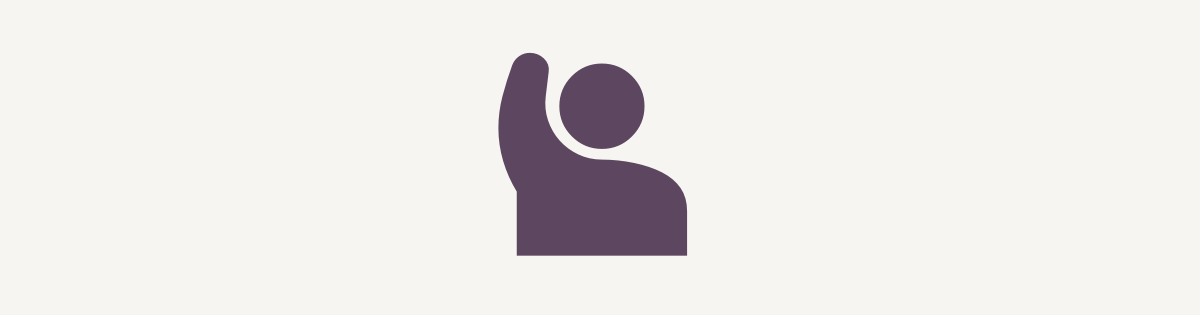
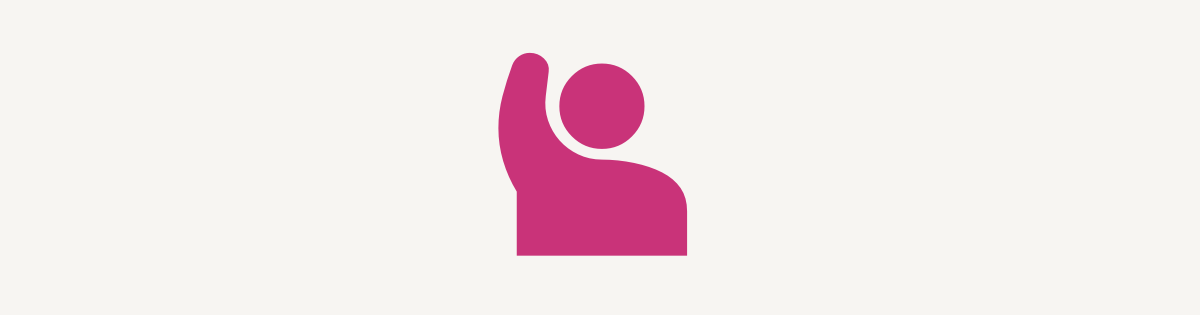
Add products API and table schema; update config
Add a /api/products REST API with GET/POST/PATCH/DELETE handlers and a /api/products/structure route that returns the products table schema. Add SQL assets: get_table_schema RPC and products table (with seed data). Remove outdated supabase README and the /api/viruses route. Update next.config to cache a specific video file, change design defaults (default theme -> light, primary color -> #C93379) and adjust manifest theme/background colors. Also update several public Askleida assets (PNGs, sketches, SVG fills) to reflect the new branding.

Changed region(s): [[0.4008, 0.1714, 0.5858, 0.8286]]

diff --git a/app/api/products/route.ts b/app/api/products/route.ts
@@ -1,0 +1,82 @@
+
+import { NextResponse } from 'next/server';
+import { createClient } from '@supabase/supabase-js';
+import { makeRes } from '../lib/makeRes';
+
+const supabaseUrl = process.env.NEXT_PUBLIC_SUPABASE_URL!;
+const supabaseServiceKey = process.env.SUPABASE_SERVICE_ROLE_KEY!;
+const tenant = process.env.NEXT_PUBLIC_TENANT;
+const supabase = createClient(supabaseUrl, supabaseServiceKey);
+
+// GET /api/products - List all products
+export async function GET(req: Request) {
+  const url = req?.url ? new URL(req.url) : null;
+  const id = url?.searchParams.get('id');
+  if (id) {
+    // Get single product by id
+    const { data, error } = await supabase.from('products').select('*').eq('product_id', id).single();
+    if (error) {
+      const res = makeRes({ tenant, message: error.message, severity: 'error' });
+      return NextResponse.json(res, { status: 404 });
+    }
+    const res = makeRes({ tenant, message: 'Fetched product', severity: 'success', data });
+    return NextResponse.json(res);
+  }
+  // List all products
+  const { data, error } = await supabase.from('products').select('*');
+  if (error) {
+    const res = makeRes({ tenant, message: error.message, severity: 'error' });
+    return NextResponse.json(res, { status: 500 });
+  }
+  const res = makeRes({ tenant, message: 'Fetched products', severity: 'success', data });
+  return NextResponse.json(res);
+}
+
+// POST /api/products - Create a new product
+export async function POST(req: Request) {
+  const body = await req.json();
+  if (!body.name || !body.price) {
+    const res = makeRes({ tenant, message: 'Missing required fields: name, price', severity: 'error' });
+    return NextResponse.json(res, { status: 400 });
+  }
+  const { data, error } = await supabase.from('products').insert([body]).select();
+  if (error) {
+    const res = makeRes({ tenant, message: error.message, severity: 'error' });
+    return NextResponse.json(res, { status: 500 });
+  }
+  const res = makeRes({ tenant, message: 'Product created', severity: 'success', data });
+  return NextResponse.json(res);
+}
+
+// PATCH /api/products - Update a product (expects { product_id, ...fields })
+export async function PATCH(req: Request) {
+  const body = await req.json();
+  const { product_id, ...fields } = body;
+  if (!product_id) {
+    const res = makeRes({ tenant, message: 'Missing product_id', severity: 'error' });
+    return NextResponse.json(res, { status: 400 });
+  }
+  const { data, error } = await supabase.from('products').update(fields).eq('product_id', product_id).select();
+  if (error) {
+    const res = makeRes({ tenant, message: error.message, severity: 'error' });
+    return NextResponse.json(res, { status: 500 });
+  }
+  const res = makeRes({ tenant, message: 'Product updated', severity: 'success', data });
+  return NextResponse.json(res);
+}
+
+// DELETE /api/products - Delete a product (expects { product_id })
+export async function DELETE(req: Request) {
+  const { product_id } = await req.json();
+  if (!product_id) {
+    const res = makeRes({ tenant, message: 'Missing product_id', severity: 'error' });
+    return NextResponse.json(res, { status: 400 });
+  }
+  const { data, error } = await supabase.from('products').delete().eq('product_id', product_id).select();
+  if (error) {
+    const res = makeRes({ tenant, message: error.message, severity: 'error' });
+    return NextResponse.json(res, { status: 500 });
+  }
+  const res = makeRes({ tenant, message: 'Product deleted', severity: 'success', data });
+  return NextResponse.json(res);
+}

diff --git a/app/api/products/structure/route.ts b/app/api/products/structure/route.ts
@@ -1,0 +1,39 @@
+
+import { NextResponse } from 'next/server';
+import { createClient } from '@supabase/supabase-js';
+import { makeRes } from '../../lib/makeRes';
+
+const supabaseUrl = process.env.NEXT_PUBLIC_SUPABASE_URL!;
+const supabaseServiceKey = process.env.SUPABASE_SERVICE_ROLE_KEY!;
+const tenant = process.env.NEXT_PUBLIC_TENANT;
+const supabase = createClient(supabaseUrl, supabaseServiceKey);
+
+// GET /api/products/structure - Returns the structure of the products table
+export async function GET() {
+  // Use the get_table_schema RPC
+  const { data, error } = await supabase.rpc('get_table_schema', { table_name: 'products' });
+
+  if (error) {
+    const res = makeRes({ tenant, message: error.message, severity: 'error' });
+    return NextResponse.json(res, { status: 500 });
+  }
+
+  // Transform to a TypeScript-like object structure
+  const tsFields = data?.map((col: any) => ({
+    name: col.column_name,
+    type: col.data_type,
+    optional: col.is_nullable === 'YES',
+    default: col.column_default,
+    maxLength: col.character_maximum_length,
+    numericPrecision: col.numeric_precision,
+    numericScale: col.numeric_scale,
+  }));
+
+  const res = makeRes({
+    tenant,
+    message: 'Fetched products table structure',
+    severity: 'success',
+    data: tsFields,
+  });
+  return NextResponse.json(res);
+}

diff --git a/next.config.ts b/next.config.ts
@@ -52,6 +52,18 @@ export default withPWA({
         },
       },
       {
+        // Cache the specific video file
+        urlPattern: /\/askleida\/mp4\/video\.mp4$/,
+        handler: "CacheFirst",
+        options: {
+          cacheName: "videos",
+          expiration: {
+            maxEntries: 4,
+            maxAgeSeconds: 60 * 60 * 24 * 30, // 30 days
+          },
+        },
+      },
+      {
         urlPattern: /^https?.*\.(?:woff2?|ttf|otf|eot)$/,
         handler: "CacheFirst",
         options: {

diff --git a/app/api/README.md b/app/api/README.md
@@ -1,0 +1,67 @@
+# Askleida API (Next.js + Supabase)
+
+This directory implements a secure, RESTful API for managing your Supabase database using Next.js API routes. All endpoints are designed for server-side use and require Supabase authentication. Security is a priority—never expose your Supabase service role key to the client.
+
+## Overview
+
+- **Framework:** Next.js API routes
+- **Database:** Supabase (Postgres)
+- **Auth:** All requests require Supabase Auth; endpoints use the service role key and must only be called server-side.
+- **Response Pattern:** All endpoints use the `makeRes` utility for consistent, metadata-rich responses.
+
+## Route Structure
+
+### `/api/`
+- **GET**: Health check endpoint. Returns a simple success message.
+
+### `/api/supabase/`
+- **GET**: List all tables in the database (via the `list_tables` Postgres function).
+
+### `/api/supabase/tables/`
+- **GET**: List all tables in the database.
+- **POST**: Create a new table. Requires a SQL statement in the request body:
+  ```json
+  { "sql": "CREATE TABLE ..." }
+  ```
+
+### `/api/supabase/tables/[table]`
+- **GET**: List all rows in the specified table.
+- **POST**: Insert a new row. Request body should be a JSON object representing the row.
+- **PATCH**: Update rows. Request body should include:
+  ```json
+  { "filter": { ... }, "values": { ... } }
+  ```
+- **DELETE**: Delete rows. Request body should include:
+  ```json
+  { "filter": { ... } }
+  ```
+
+### `/api/supabase/tables/[table]/schema`
+- **GET**: Get the schema (columns) for the specified table.
+- **PATCH**: Alter the table structure. Requires a SQL statement in the request body:
+  ```json
+  { "sql": "ALTER TABLE ..." }
+  ```
+
+## Requirements
+- The following Postgres functions must exist in your Supabase database:
+  - `list_tables()`
+  - `execute_sql(sql text)`
+  - `get_table_schema(table_name text)`
+- All endpoints use the `makeRes` pattern for consistent API responses.
+- Only use these endpoints server-side. Never expose your service role key to the client.
+
+## Security Notes
+- All endpoints require authentication via Supabase Auth.
+- The Supabase service role key is used server-side only.
+- Never expose sensitive keys or credentials to the client.
+
+## File Structure
+- `route.ts` — Root API health check
+- `lib/` — Shared utilities (e.g., `makeRes` for response formatting)
+- `supabase/` — All Supabase-related API routes
+  - `route.ts` — List tables
+  - `tables/` — Table CRUD and schema management
+    - `[table]/route.ts` — CRUD for individual tables
+    - `[table]/schema/route.ts` — Schema management for individual tables
+